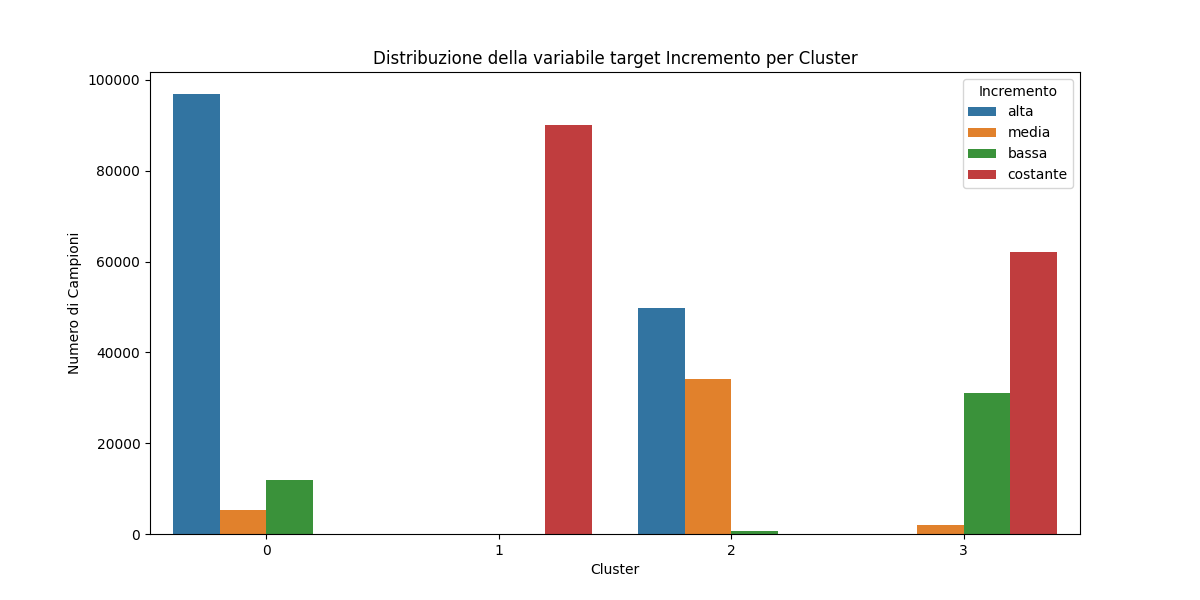
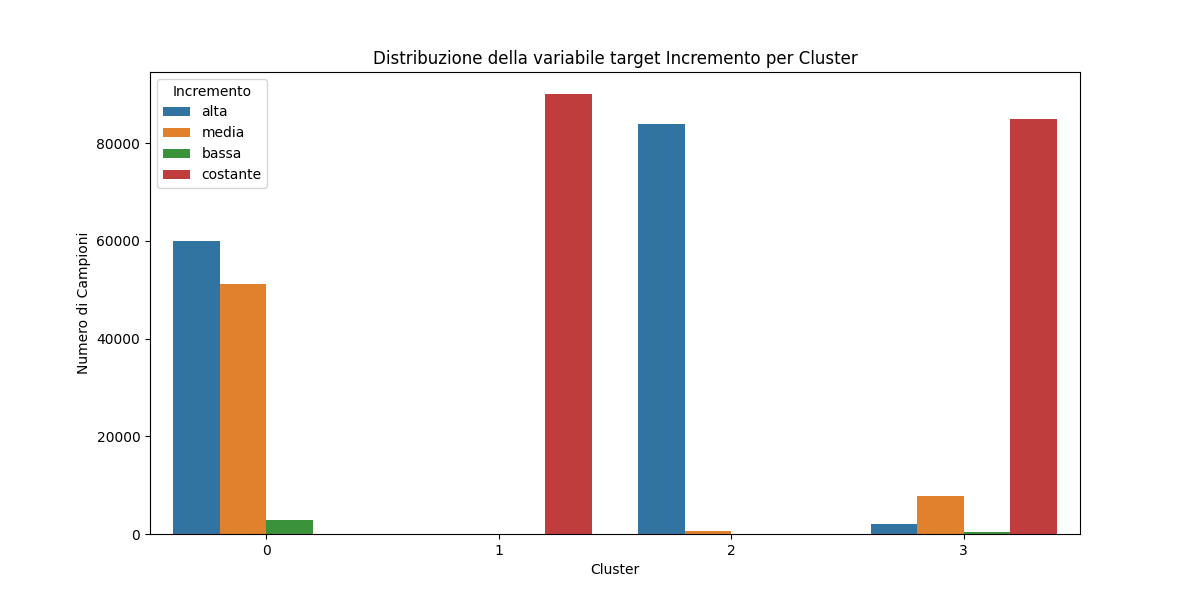
aggiornamento file increment su come calcoliamo l'incremento da quadimestri a semestri

diff --git a/feature_extraction/extract_increment.py b/feature_extraction/extract_increment.py
@@ -1,22 +1,25 @@
 import pandas as pd
 
+
 def dati_da_utilizzare(df):
     tipologie = df['tipologia_professionista_sanitario'].unique()
-    DaF=pd.read_parquet('datasets/df_aggregato.parquet')
-    # Lista degli intervalli di anni e mesi
+    DaF = pd.read_parquet('datasets/df_aggregato.parquet')
+    # Lista degli intervalli di anni e mesi in formato semestrale
     intervalli_anni_mesi = [
-        (2019, 2020, '1, 2, 3, 4'), (2019, 2020, '5, 6, 7, 8'), (2019, 2020, '9, 10, 11, 12'),
-        (2020, 2021, '1, 2, 3, 4'), (2020, 2021, '5, 6, 7, 8'), (2020, 2021, '9, 10, 11, 12'),
-        (2021, 2022, '1, 2, 3, 4'), (2021, 2022, '5, 6, 7, 8'), (2021, 2022, '9, 10, 11, 12')
+        (2019, 2020, '1, 2, 3, 4, 5, 6'),
+        (2019, 2020, '7, 8, 9, 10, 11, 12'),
+        (2020, 2021, '1, 2, 3, 4, 5, 6'),
+        (2020, 2021, '7, 8, 9, 10, 11, 12'),
+        (2021, 2022, '1, 2, 3, 4, 5, 6'),
+        (2021, 2022, '7, 8, 9, 10, 11, 12')
     ]
-    return tipologie , DaF, intervalli_anni_mesi
+    return tipologie, DaF, intervalli_anni_mesi
 
 def get_intervallo_mesi(mese):
     intervalli_mesi = {
-        (1, 2, 3, 4): '1, 2, 3, 4',
-        (5, 6, 7, 8): '5, 6, 7, 8',
-        (9, 10, 11, 12): '9, 10, 11, 12'
-    }
+            (1, 2, 3, 4, 5, 6): '1, 2, 3, 4, 5, 6',
+            (7, 8, 9, 10, 11, 12): '7, 8, 9, 10, 11, 12'
+        }
 
     for mesi, intervallo in intervalli_mesi.items():
         if mese in mesi:
